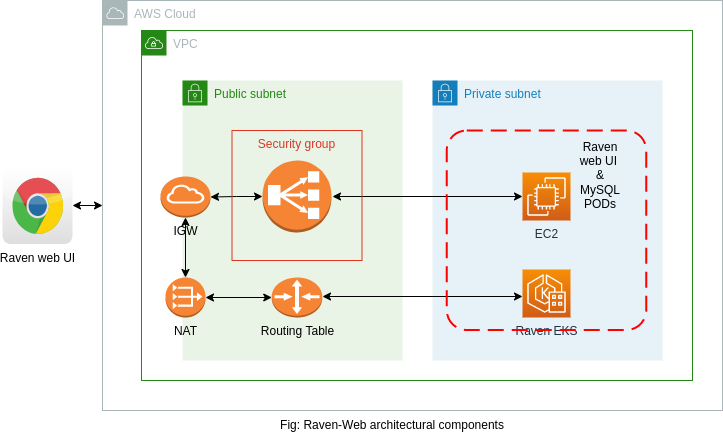
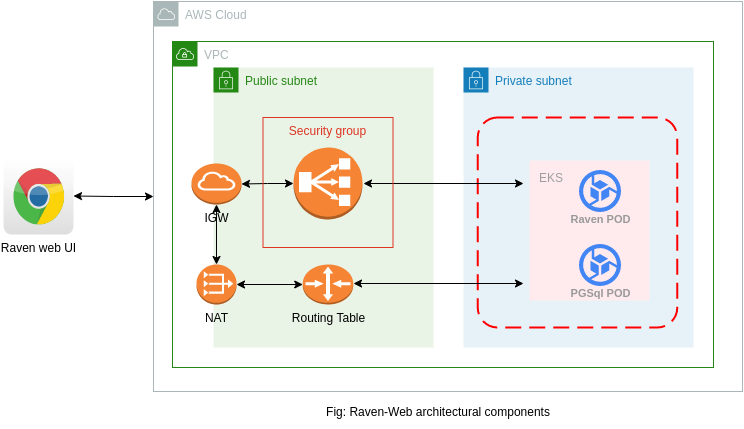
Update: architecture diagram and related document changes

Changed region(s): [[0.1217, 0.0, 1.0, 1.0], [0.0, 0.3939, 0.1521, 0.6061]]

diff --git a/raven/byol/README.md b/raven/byol/README.md
@@ -10,7 +10,7 @@ Raven can be deployed using helm charts on EKS, the deployment architecture will
 
 Raven on EKS accelerates the SQL and ETL translation process from legacy source systems to cloud-native technology. 
 
-Kubernetes manages Raven single-instance solutions and the Raven UI endpoints by default exposed externally using a LoadBalancer Service on a single port 8080 or 8443 - for HTTP and HTTPS interface.
+Kubernetes manages Raven single-instance solutions and the Raven UI endpoints by default exposed externally using a LoadBalancer Service on a single port 8443 - HTTPS interface.
 
 The sizing and configuration can be customized and managed using ConfigMaps and Helm chart values.yml
 
@@ -72,6 +72,7 @@ eksctl create cluster --name raven-cluster \
     --zones us-east-1a,us-east-1b \
     --nodegroup-name private-ng1 \
     --nodes 1 --ssh-public-key <EC2keypair> \
+    --ssh-access \
     --node-private-networking \
     --vpc-nat-mode HighlyAvailable
 ```
@@ -83,9 +84,10 @@ eksctl create cluster --name raven-cluster \
   --vpc-private-subnets=<subnetid-1>,<subnetid-2>
   --nodegroup-name private-ng1 \
   --nodes 1 \
-  --node-type t3.large \
+  --node-type t3a.2xlarge \
   --node-volume-size 80
   --ssh-public-key <EC2keypair> \
+  --ssh-access \
   --node-private-networking \
   --vpc-nat-mode HighlyAvailable
 ```
@@ -151,7 +153,7 @@ helm install --set-string raven.service.loadBalancerSourceRanges=0.0.0.0/0 \
   --set-string ravendb.image.repo=709825985650.dkr.ecr.us-east-1.amazonaws.com/datametica/raven-byol/raven-db \
   --set-string ravendb.image.tag=9.6 \
   --set-string raven.image.repo=709825985650.dkr.ecr.us-east-1.amazonaws.com/datametica/raven-byol/raven-web1 \
-  --set-string raven.image.tag=1.0.5 dmm-raven charts
+  --set-string raven.image.tag=1.0.5 dm-raven charts
 
 ```
 
